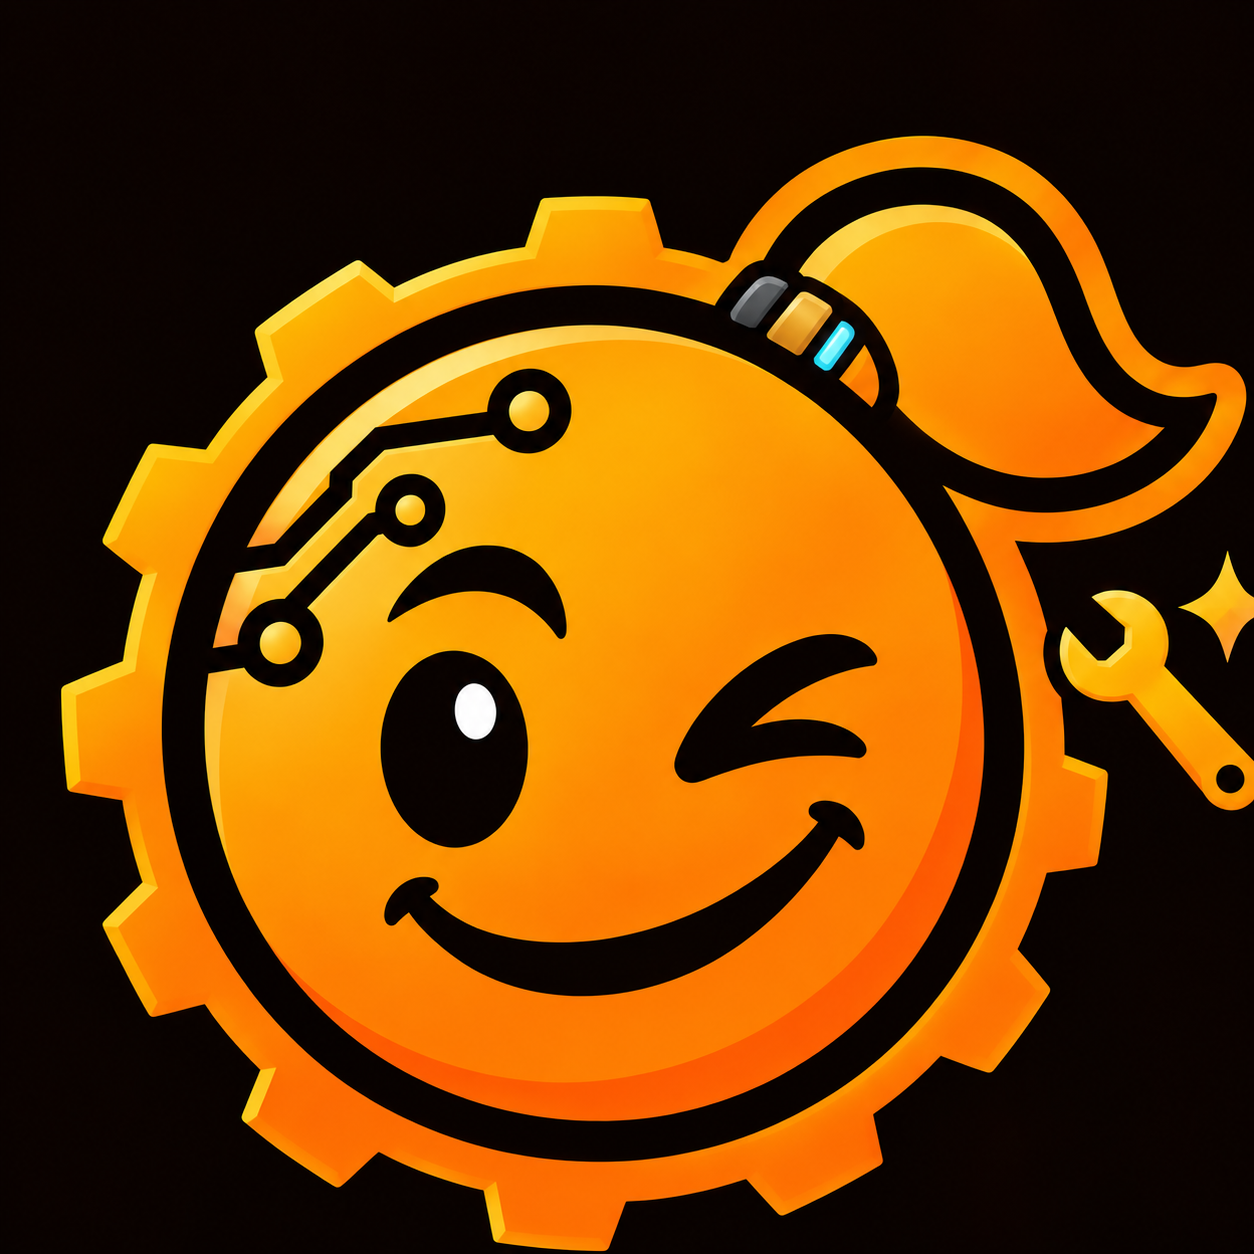
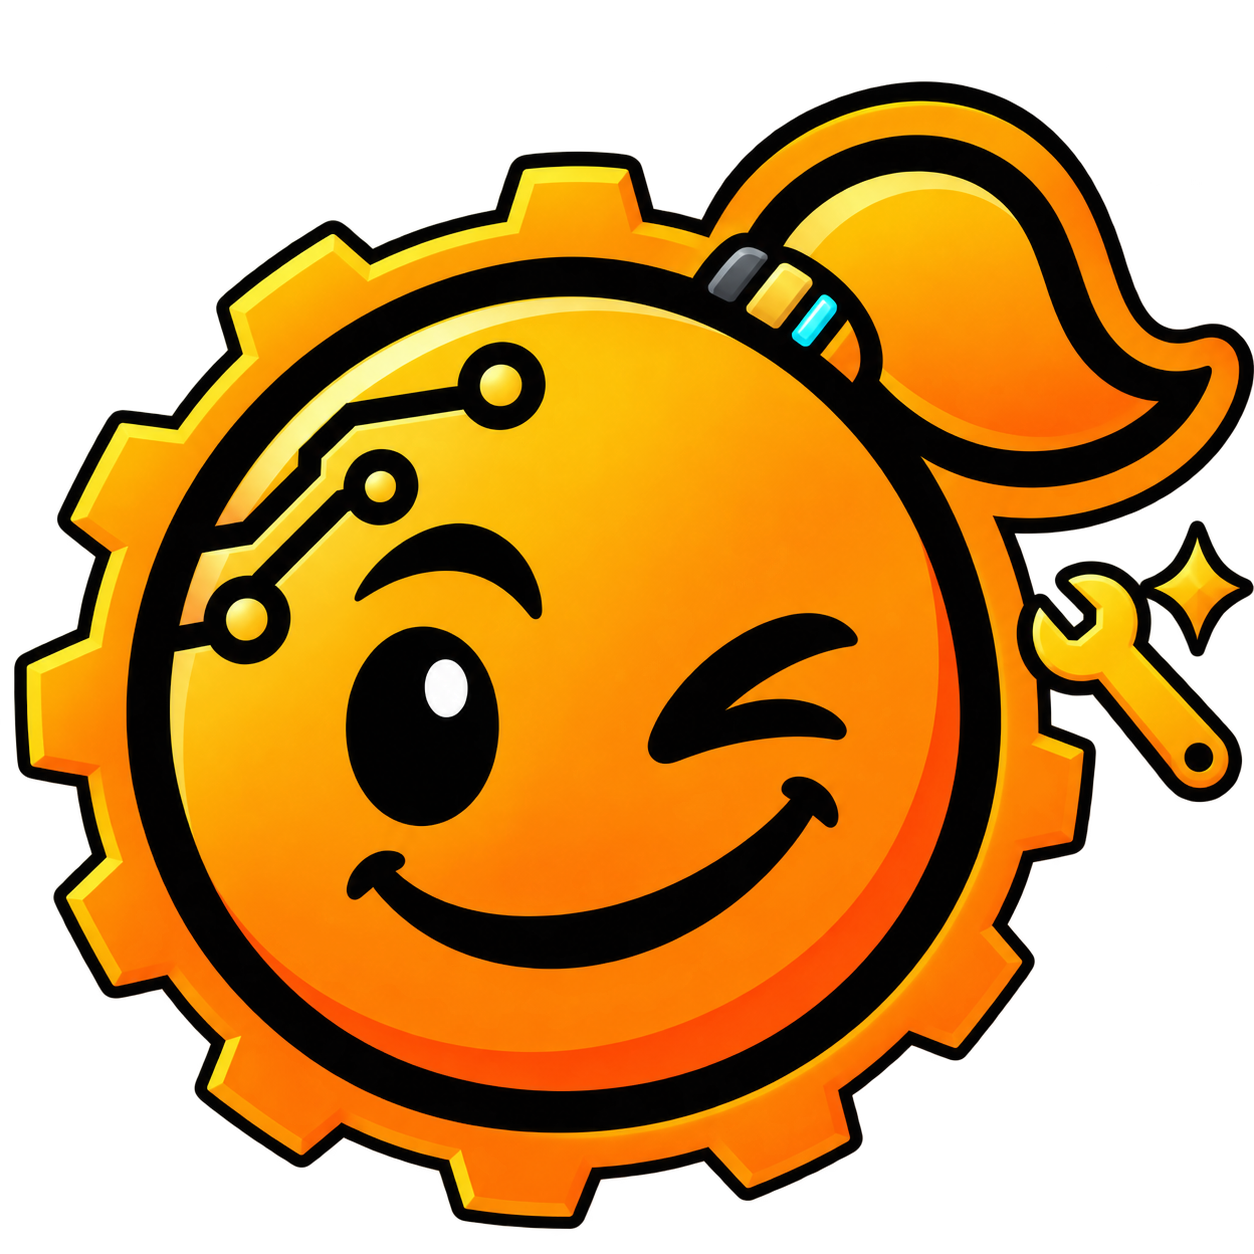
ModIcon: remove the black background and trim to the art (owner's request)

diff --git a/STATUS.md b/STATUS.md
@@ -27,7 +27,7 @@ accepted:
   - accepted 2026-09-21 by the user (23 uninstalled source mods then, 30 of 45 on 2026-09-26): the corrected defNames of the uninstalled source mods have never been confronted with their sources; only the 7 installed mods’ defNames were, and all resolved. Knowingly accepted rather than closed: the gap shuts by itself when a mod returns to the modlist, and the check reruns then. See "Patches outlive their mods"
   - accepted 2026-09-21 by the user (23 of 30 then, 30 of 45 on 2026-09-26): the unit tests check the uninstalled source mods against synthetic fixtures only; the real-def and starting-level checks ran for the 7 installed on 2026-09-20 and report the rest as SKIP rather than passing them. Knowingly accepted on the same ground, and the SKIP is deliberate - the suite never reports an unchecked mod as passing
 session:      local_bda06393-deee-42a0-8f7b-5796fbec672f
-updated:      2026-10-08: 1.0.2 uploaded (publish run 37789170249 approved by the owner; tag v1.0.2 and release by the CI on b5036b67ce2b18bb4be488220ec3396d151ca77f); item public, description links fixed. Previous: 2026-10-08: 1.0.2 prepared to fix description links shown as raw Markdown (converter and the underscore of `lime_time`): dry-run green, run 37788999704 on b5036b67ce2b18bb4be488220ec3396d151ca77f, 7974 bytes; publish run awaits approval. Previous: 2026-10-08: item set public by the owner, stage `published`. Previous: 2026-10-08: 1.0.1 uploaded to Steam by publish run 37787677923 (approved by the owner; tag v1.0.1 and release created by the CI on 0c6e4fffad615a8bf2d3b0e0b1d2325d30f82419); the page description now names the corrected mods; item still private, stage stays `prepublished`. Previous: 2026-10-08: 1.0.1 prepared (description names the corrected mods with links and authors): dry-run green, run 37787478553 on 0c6e4fffad615a8bf2d3b0e0b1d2325d30f82419 (after the wording review; supersedes earlier 1.0.1 dry-runs), update_description=true, 7981 bytes; not published yet. Previous: 2026-10-08: 1.0.0 uploaded to Steam by publish run 37770622317 (approved by the owner; tag v1.0.0 and release created by the CI on 80606e8e5208004f82114340701ba5961e53488b); item still private, stage stays `prepublished` until subscription test and public switch by hand. Previous: 2026-10-08: stage `prepublished` set before the publish run 37770622317 is approved (dry-run 37768986059 green on 80606e8; the run was dispatched a few minutes before this field was set). Previous: 2026-10-08: both Pickle passes green on `324e9ec` (bare 1/1, sources 5/5); step 9 criteria met (no `@wip`, no conditional scenario, no manual test left): stage `tested`. Next: `tested -> prepublished` (dry-run of the exact commit, `steam-production` by the owner)
+updated:      2026-10-08: Mod/About/ModIcon.png recropped at the owner's request (black border background made transparent, canvas trimmed to the art, 128x128, 21.9 KB, from Art/ModIcon-source.png); not deployed yet, ships with the next publish together with the Preview (update_preview). Previous: 2026-10-08: 1.0.2 uploaded (publish run 37789170249 approved by the owner; tag v1.0.2 and release by the CI on b5036b67ce2b18bb4be488220ec3396d151ca77f); item public, description links fixed. Previous: 2026-10-08: 1.0.2 prepared to fix description links shown as raw Markdown (converter and the underscore of `lime_time`): dry-run green, run 37788999704 on b5036b67ce2b18bb4be488220ec3396d151ca77f, 7974 bytes; publish run awaits approval. Previous: 2026-10-08: item set public by the owner, stage `published`. Previous: 2026-10-08: 1.0.1 uploaded to Steam by publish run 37787677923 (approved by the owner; tag v1.0.1 and release created by the CI on 0c6e4fffad615a8bf2d3b0e0b1d2325d30f82419); the page description now names the corrected mods; item still private, stage stays `prepublished`. Previous: 2026-10-08: 1.0.1 prepared (description names the corrected mods with links and authors): dry-run green, run 37787478553 on 0c6e4fffad615a8bf2d3b0e0b1d2325d30f82419 (after the wording review; supersedes earlier 1.0.1 dry-runs), update_description=true, 7981 bytes; not published yet. Previous: 2026-10-08: 1.0.0 uploaded to Steam by publish run 37770622317 (approved by the owner; tag v1.0.0 and release created by the CI on 80606e8e5208004f82114340701ba5961e53488b); item still private, stage stays `prepublished` until subscription test and public switch by hand. Previous: 2026-10-08: stage `prepublished` set before the publish run 37770622317 is approved (dry-run 37768986059 green on 80606e8; the run was dispatched a few minutes before this field was set). Previous: 2026-10-08: both Pickle passes green on `324e9ec` (bare 1/1, sources 5/5); step 9 criteria met (no `@wip`, no conditional scenario, no manual test left): stage `tested`. Next: `tested -> prepublished` (dry-run of the exact commit, `steam-production` by the owner)
 code_review_sha: 0f3b7f410ab9d73ca02b311389e36d1525f75258  # 2026-10-08, range 34d9732..0f3b7f4, no findings
 ---
 
